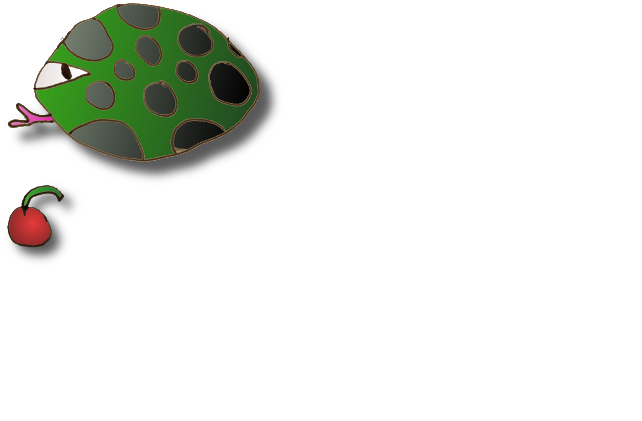
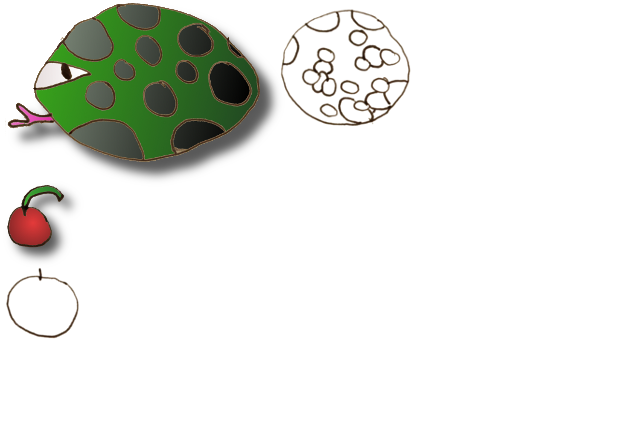
Apple

diff --git a/main.go b/main.go
@@ -144,19 +144,18 @@ func loadScene() {
 	objs = make(Objs, 0)
 
 	// a cherry
-	c := &fsm.Object{X: 20, Y: 40, Width: CherryW, Height: CherryH}
-	c.Sprite = texs[texCerise]
-	c.Node(scene, eng)
-	objs = append(objs, c)
+	NewCherry(20, 40)
+	NewApple(100, 40)
 
 	// Snake
 	snake = NewSnake(float32(geom.Width/2), float32(geom.Height/2))
-	snake.Node(scene, eng)
 }
 
 const (
 	texSnakeHead = iota
-	texCerise
+	texSnakeQueue
+	texCherry
+	texApple
 )
 
 func loadTextures() []sprite.SubTex {
@@ -175,7 +174,9 @@ func loadTextures() []sprite.SubTex {
 	}
 
 	return []sprite.SubTex{
-		texSnakeHead: sprite.SubTex{t, image.Rect(0, 0, 280, 184)},
-		texCerise:    sprite.SubTex{t, image.Rect(0, 184, 80, 184+80)},
+		texSnakeHead:  sprite.SubTex{t, image.Rect(0, 0, 280, 184)},
+		texSnakeQueue: sprite.SubTex{t, image.Rect(278, 0, 278+146, 141)},
+		texCherry:     sprite.SubTex{t, image.Rect(0, 184, 80, 184+80)},
+		texApple:      sprite.SubTex{t, image.Rect(0, 263, 88, 263+80)},
 	}
 }

diff --git a/sprites.go b/sprites.go
@@ -15,6 +15,8 @@ const (
 	SnakeW, SnakeH = float32(78.4), float32(51.52)
 	// 80x80
 	CherryW, CherryH = float32(22.4), float32(22.4)
+	// 88x80
+	AppleW, AppleH = float32(24.6), float32(22.4)
 )
 
 type Snake struct {
@@ -32,11 +34,28 @@ func NewSnake(x, y float32) *Snake {
 	s.Height = SnakeH
 	s.Sprite = texs[texSnakeHead]
 	s.Action = fsm.ActionFunc(snakeMove)
+	s.Node(scene, eng)
 	return s
 }
 
 type Cherry struct {
 	fsm.Object
+}
+
+type Apple struct {
+	fsm.Object
+}
+
+func NewApple(x, y float32) *Apple {
+	c := &Apple{}
+	c.X = x
+	c.Y = y
+	c.Width = AppleW
+	c.Height = AppleH
+	c.Sprite = texs[texApple]
+	c.Node(scene, eng)
+	objs = append(objs, &c.Object)
+	return c
 }
 
 func NewCherry(x, y float32) *Cherry {
@@ -45,5 +64,8 @@ func NewCherry(x, y float32) *Cherry {
 	c.Y = y
 	c.Width = CherryW
 	c.Height = CherryH
+	c.Sprite = texs[texCherry]
+	c.Node(scene, eng)
+	objs = append(objs, &c.Object)
 	return c
 }
